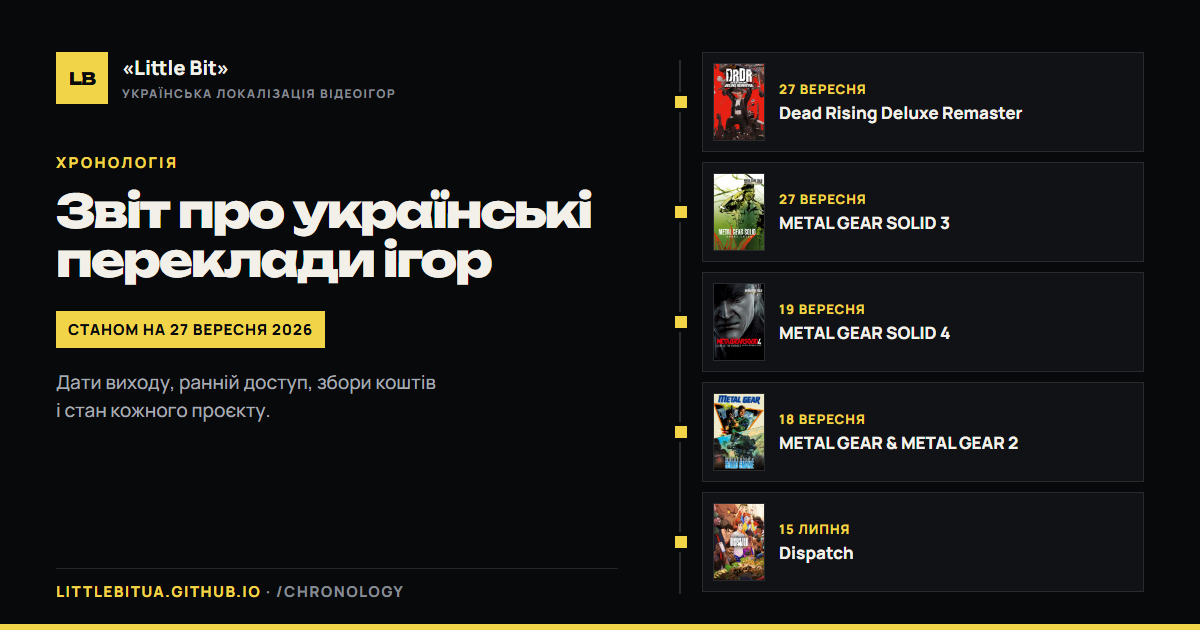
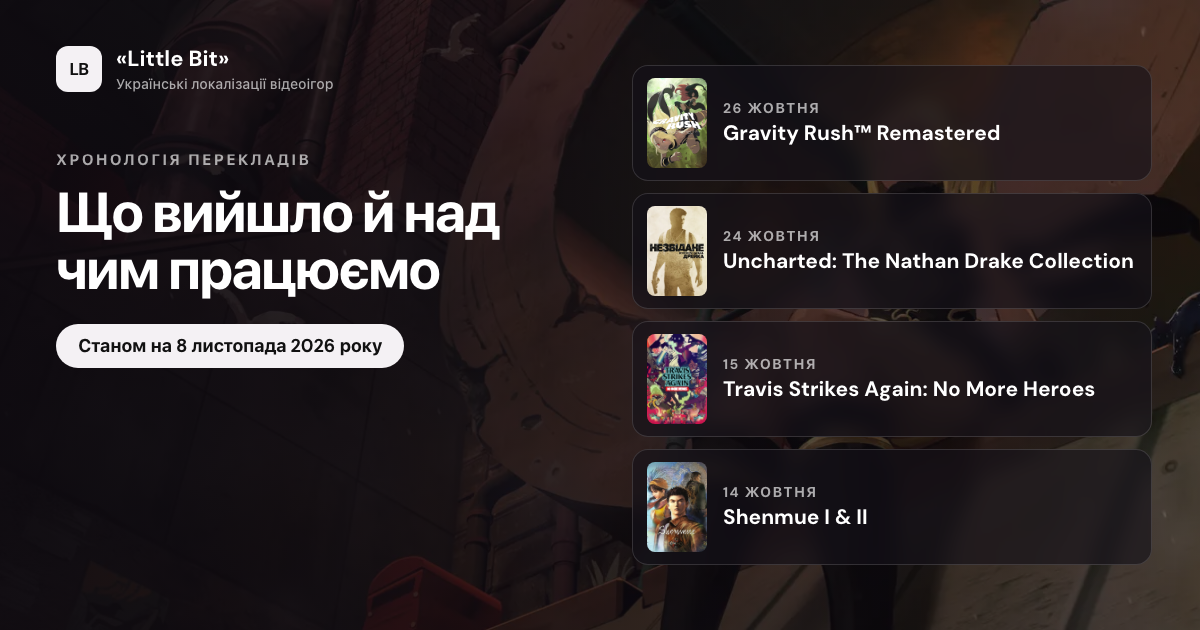
New link previews; status badge on every poster; calmer glass buttons
- og.png / og-chronology.png redrawn in the new style (DM Sans, game banner,
  fresh releases); scripts/generate-og.mjs renders them from site data via
  headless Chrome and now runs in the deploy, so the chronology preview
  always shows the current report date.
- Game and series pages use the wide game banner as their preview image.
- Every poster shows its status badge, including "Готово".
- Glass buttons no longer mix in the tint colour (looked like a glow);
  hero edge arrows lost the dark strip.

diff --git a/src/styles/cinema.css b/src/styles/cinema.css
@@ -58,16 +58,14 @@ body.cinema h1, body.cinema h2, body.cinema h3 {
 
 .c-btn--glass {
   padding: 0 22px;
-  background: color-mix(in srgb, var(--tint) 55%, rgba(255, 255, 255, 0.08));
-  border: 1px solid var(--glass-line);
+  background: rgba(255, 255, 255, 0.1);
+  border: 1px solid rgba(255, 255, 255, 0.16);
   color: #fff;
-  backdrop-filter: blur(8px);
-  -webkit-backdrop-filter: blur(8px);
   text-transform: none;
   letter-spacing: 0;
   font-weight: 600;
 }
-.c-btn--glass:hover { background: color-mix(in srgb, var(--tint) 40%, rgba(255, 255, 255, 0.2)); }
+.c-btn--glass:hover { background: rgba(255, 255, 255, 0.18); }
 .c-btn--fund { background: #f2a94b; color: #160d02; }
 .c-btn--fund:hover { background: #ffbe66; }
 
@@ -77,10 +75,8 @@ body.cinema h1, body.cinema h2, body.cinema h3 {
   align-items: center;
   min-height: 52px;
   border-radius: var(--pill);
-  background: color-mix(in srgb, var(--tint) 55%, rgba(255, 255, 255, 0.08));
-  border: 1px solid var(--glass-line);
-  backdrop-filter: blur(8px);
-  -webkit-backdrop-filter: blur(8px);
+  background: rgba(255, 255, 255, 0.1);
+  border: 1px solid rgba(255, 255, 255, 0.16);
 }
 .c-group a {
   display: inline-flex;
@@ -93,8 +89,8 @@ body.cinema h1, body.cinema h2, body.cinema h3 {
   font-weight: 600;
   white-space: nowrap;
 }
-.c-group a + a { border-left: 1px solid var(--glass-line); }
-.c-group a:hover { color: #fff; background: rgba(255, 255, 255, 0.08); }
+.c-group a + a { border-left: 1px solid rgba(255, 255, 255, 0.16); }
+.c-group a:hover { color: #fff; background: rgba(255, 255, 255, 0.1); }
 .c-group a:first-child { border-radius: var(--pill) 0 0 var(--pill); }
 .c-group a:last-child { border-radius: 0 var(--pill) var(--pill) 0; }
 .c-group svg { width: 16px; height: 16px; fill: none; stroke: currentColor; stroke-width: 2; }
